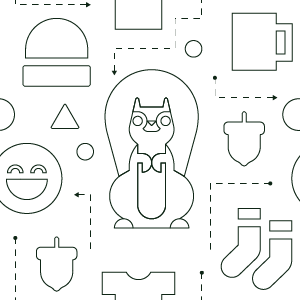
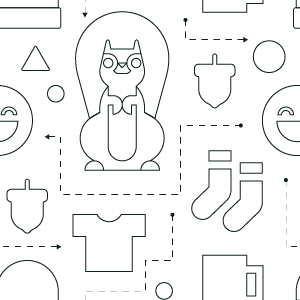
Styling updates

diff --git a/ui/components/SharedModal.tsx b/ui/components/SharedModal.tsx
@@ -92,7 +92,7 @@ export default function SharedModal({
                 <>
                   {index > 0 && (
                     <button
-                      className="absolute left-3 top-[calc(50%-16px)] rounded-full bg-black/50 p-3 text-white/75 backdrop-blur-lg transition hover:bg-black/75 hover:text-white focus:outline-none"
+                      className="absolute left-3 top-[calc(50%-16px)] rounded-full bg-momento-electric-green p-3 text-white/75 backdrop-blur-lg transition hover:bg-black/75 hover:text-white focus:outline-none"
                       style={{ transform: 'translate3d(0, 0, 0)' }}
                       onClick={() => changePhoto(swagImages[index - 1])}
                     >
@@ -101,7 +101,7 @@ export default function SharedModal({
                   )}
                   {index + 1 < images.length && (
                     <button
-                      className="absolute right-3 top-[calc(50%-16px)] rounded-full bg-black/50 p-3 text-white/75 backdrop-blur-lg transition hover:bg-black/75 hover:text-white focus:outline-none"
+                      className="absolute right-3 top-[calc(50%-16px)] rounded-full bg-momento-electric-green p-3 text-white/75 backdrop-blur-lg transition hover:bg-black/75 hover:text-white focus:outline-none"
                       style={{ transform: 'translate3d(0, 0, 0)' }}
                       onClick={() => changePhoto(swagImages[index + 1])}
                     >
@@ -113,7 +113,7 @@ export default function SharedModal({
               <div className="absolute top-0 right-0 flex items-center gap-2 p-3 text-white">
                 <a
                   href={currentPhoto}
-                  className="rounded-full bg-black/50 p-2 text-white/75 backdrop-blur-lg transition hover:bg-black/75 hover:text-white"
+                  className="rounded-full bg-momento-electric-green p-2 text-momento-forest-green backdrop-blur-lg transition hover:bg-momento-mint-green"
                   target="_blank"
                   title="Open fullsize version"
                   rel="noreferrer"
@@ -122,7 +122,7 @@ export default function SharedModal({
                 </a>
                 <a
                   href={`https://twitter.com/intent/tweet?text=Check%20out%20this%20swag%20I%20found%20at%20re:Invent!%0A%23reinvent%20%23swag%0A%0Ahttps://swaghunt.io/${from}/${type}`}
-                  className="rounded-full bg-black/50 p-2 text-white/75 backdrop-blur-lg transition hover:bg-black/75 hover:text-white"
+                  className="rounded-full bg-momento-electric-green p-2 text-momento-forest-green backdrop-blur-lg transition hover:bg-momento-mint-green"
                   target="_blank"
                   title="Open fullsize version"
                   rel="noreferrer"
@@ -131,7 +131,7 @@ export default function SharedModal({
                 </a>
                 <button
                   onClick={() => downloadPhoto(currentPhoto)}
-                  className="rounded-full bg-black/50 p-2 text-white/75 backdrop-blur-lg transition hover:bg-black/75 hover:text-white"
+                  className="rounded-full bg-momento-electric-green p-2 text-momento-forest-green backdrop-blur-lg transition hover:bg-momento-mint-green"
                   title="Download fullsize version"
                 >
                   <ArrowDownTrayIcon className="h-5 w-5" />
@@ -140,7 +140,7 @@ export default function SharedModal({
               <div className="absolute top-0 left-0 flex items-center gap-2 p-3 text-white">
                 <button
                   onClick={() => closeModal()}
-                  className="rounded-full bg-black/50 p-2 text-white/75 backdrop-blur-lg transition hover:bg-black/75 hover:text-white"
+                  className="rounded-full bg-momento-electric-green p-2 text-momento-forest-green backdrop-blur-lg transition hover:bg-momento-mint-green"
                 >
                   {navigation ? (
                     <XMarkIcon className="h-5 w-5" />

diff --git a/ui/components/SubmitForm.tsx b/ui/components/SubmitForm.tsx
@@ -181,11 +181,11 @@ export default function SubmitForm({ showAdmin, onClose }: { showAdmin?: string,
         ref={overlayRef}
         as={motion.div}
         key="backdrop"
-        className="fixed inset-0 z-30 bg-black/70 backdrop-blur-2xl"
+        className="fixed inset-0 z-30 bg-momento-forest-green/80 backdrop-blur-2xl"
         initial={{ opacity: 0 }}
         animate={{ opacity: 1 }}
       />
-      <form onSubmit={handleSubmit} className="mb-5 flex h-fit flex-col justify-end gap-4 overflow-hidden rounded-lg bg-white/10 px-6 pb-8 text-center text-white shadow-highlight lg:pt-0 z-50">
+      <form onSubmit={handleSubmit} className="mb-5 flex h-fit flex-col justify-end gap-4 overflow-hidden rounded-lg bg-momento-dark-forest px-6 pb-8 text-center text-white shadow-highlight lg:pt-0 z-50">
         <h1 className="text-center text-3xl font-bold mt-4">Found some swag?</h1>
         <hr />
         {showAdmin && (<input
@@ -256,7 +256,7 @@ export default function SubmitForm({ showAdmin, onClose }: { showAdmin?: string,
           />
           <div className="mt-3">
             {formData.tags.map((tag, index) => (
-              <span key={index} className="inline-block bg-momento-light-mint text-black text-xs font-semibold mr-2 px-2.5 py-1 rounded-lg">
+              <span key={index} className="inline-block bg-momento-electric-green text-momento-forest-green text-xs font-semibold mr-2 px-2.5 py-1 rounded-lg">
                 {tag}
               </span>
             ))}
@@ -270,12 +270,12 @@ export default function SubmitForm({ showAdmin, onClose }: { showAdmin?: string,
             name="email"
             value={formData.email}
             onChange={handleInputChange}
-            className="mt-1 block w-full rounded-sm p-1 border-gray-300 shadow-sm text-black"
+            className="mt-1 block w-full rounded-sm p-1 shadow-sm text-black"
             placeholder="(Optional) Enter for a raffle entry"
           />
         </label>
 
-        <button disabled={!canSubmit} type="submit" className="py-2 px-4 mt-2 bg-momento-mint-green text-black font-semibold rounded-lg shadow-md hover:bg-blue-700 focus:outline-none">
+        <button disabled={!canSubmit} type="submit" className="py-2 px-4 mt-2 bg-momento-electric-green text-momento-forest-green font-semibold rounded-lg shadow-md hover:bg-momento-mint-green focus:outline-none">
           {isProcessing ? (
             <>
               <div className="flex justify-center items-center gap-1">

diff --git a/ui/pages/index.tsx b/ui/pages/index.tsx
@@ -54,14 +54,8 @@ const Home: NextPage = () => {
     <>
       <Head>
         <title>Swag Hunt</title>
-        <meta
-          property="og:image"
-          content="https://nextjsconf-pics.vercel.app/og-image.png"
-        />
-        <meta
-          name="twitter:image"
-          content="https://nextjsconf-pics.vercel.app/og-image.png"
-        />
+        <meta property="og:image" content="/ogSwaghunt.png" />
+        <meta name="twitter:image" content="/ogSwaghunt.png" />
       </Head>
       <main className="mx-auto max-w-[1960px] p-4">
 
@@ -69,7 +63,6 @@ const Home: NextPage = () => {
         <div className="columns-1 gap-4 sm:columns-2 xl:columns-3 2xl:columns-4">
           <div className="mainTile after:content relative mb-5 flex h-[500px] flex-col items-center justify-center gap-4 overflow-hidden rounded-lg bg-momento-forest-green px-6 text-center text-white shadow-highlight after:pointer-events-none after:absolute after:inset-0 after:rounded-lg after:shadow-highlight lg:pt-0">
             <div className="absolute inset-0 flex items-center justify-center opacity-20">
-
               <span className="absolute left-0 right-0 bottom-0 h-[400px] bg-gradient-to-b from-black/0 via-black to-black"></span>
             </div>
             <div className='px-5 w-full'>
@@ -83,7 +76,7 @@ const Home: NextPage = () => {
               />
             </div>
             <input
-              className="w-fill z-10 text-black mt-1 block w-full rounded-sm p-1 border-gray-300 shadow-sm"
+              className="w-fill z-10 text-black mt-1 block w-full rounded-sm p-1 shadow-sm focus:border-momento-mint-green"
               name="search"
               placeholder="  Search for swag"
               value={searchQuery}
@@ -91,7 +84,7 @@ const Home: NextPage = () => {
               onKeyDown={handleSearchQueryChanged}
             />
             <p className="max-w-[40ch] text-white/75 sm:max-w-[32ch] z-10">
-              Want to add some swag? <button className="linkButton" onClick={() => setShowAddSwag(true)}>Click Here!</button>
+              Want to add some swag? <button className="linkButton text-momento-mint-green hover:text-momento-dark-mint" onClick={() => setShowAddSwag(true)}>Click Here!</button>
             </p>
           </div>
           {swag.map(({ from, type, url, upvotes }) => (

diff --git a/ui/pages/_document.tsx b/ui/pages/_document.tsx
@@ -7,24 +7,15 @@ class MyDocument extends Document {
         <Head>
           <link rel="icon" href="/favicon.png" />
           <link href="https://fonts.googleapis.com/css2?family=Inter:wght@400;600;800&display=swap" rel="stylesheet" />
-          <meta
-            name="description"
-            content="See pictures from Next.js Conf and the After Party."
-          />
-          <meta property="og:site_name" content="nextjsconf-pics.vercel.app" />
-          <meta
-            property="og:description"
-            content="See pictures from Next.js Conf and the After Party."
-          />
-          <meta property="og:title" content="Next.js Conf 2022 Pictures" />
+          <meta name="description" content="Search for and share the best swag at re:Invent 2023 with Swaghunt—powered by Momento" />
+          <meta property="og:site_name" content="Swag Hunt" />
+          <meta property="og:description" content="Search for and share the best swag at re:Invent 2023 with Swaghunt—powered by Momento" />
+          <meta property="og:title" content="Swag Hunt" />
           <meta name="twitter:card" content="summary_large_image" />
-          <meta name="twitter:title" content="Next.js Conf 2022 Pictures" />
-          <meta
-            name="twitter:description"
-            content="See pictures from Next.js Conf and the After Party."
-          />
+          <meta name="twitter:title" content="Swag Hunt" />
+          <meta name="twitter:description" content="Search for and share the best swag at re:Invent 2023 with Swaghunt—powered by Momento" />
         </Head>
-        <body className="bg-black antialiased">
+        <body className="bg-momento-dark-forest antialiased">
           <Main />
           <NextScript />
         </body>

diff --git a/ui/components/Carousel.tsx b/ui/components/Carousel.tsx
@@ -24,7 +24,7 @@ export default function Carousel({ swag }: { swag: SwagDetail }) {
   return (
     <div className="fixed inset-0 flex flex-col items-center justify-center">
       <button
-        className="absolute inset-0 z-30 cursor-default bg-black backdrop-blur-2xl text-white"
+        className="absolute inset-0 z-30 cursor-default bg-momento-forest-green opacity-80 backdrop-blur-2xl text-white"
         onClick={closeModal}
       />
       <div className="text-white z-50 mb-4 text-center">

diff --git a/ui/tailwind.config.js b/ui/tailwind.config.js
@@ -28,6 +28,9 @@ module.exports = {
         'momento-light-squirrel': '#e1d9d5',
         'momento-light-mint': '#abe7d2',
         'momento-light-electric': '#eaf8b6'
+      },
+      fontFamily: {
+        heading: ['Manrope', 'sans-serif']
       }
     },
   },

diff --git a/ui/styles/index.css b/ui/styles/index.css
@@ -22,7 +22,7 @@
 
 .mainTile {
   background-image: url('/pattern.png');
-  background-size: contain;
+  background-size: 250px 250px;
   background-position: top center;
   background-repeat: repeat;
 }

diff --git a/ui/styles/globals.css b/ui/styles/globals.css
@@ -1,3 +1,11 @@
 body {
   font-family: 'Inter', sans-serif;
 }
+
+button {
+  font-family: 'Inter', sans-serif;
+}
+
+h1, h2, h3, h4 {
+  font-family: 'Manrope', sans-serif;
+}
